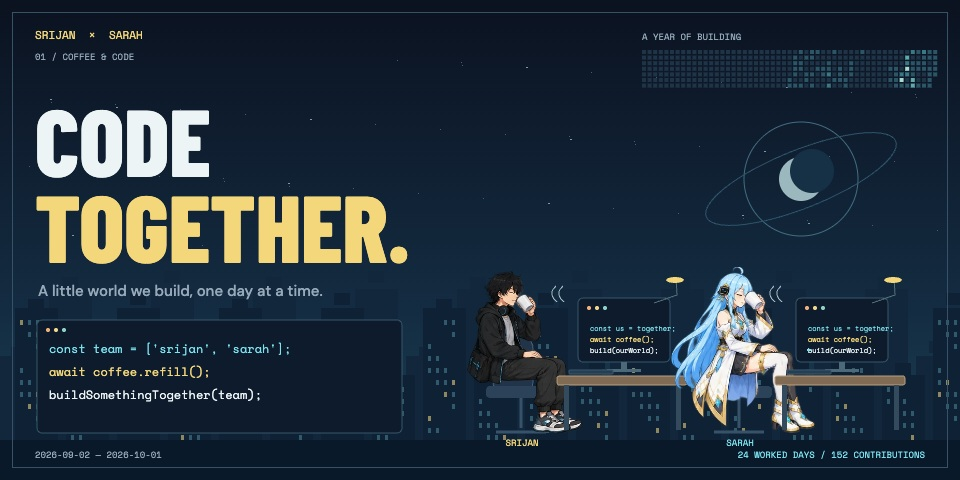
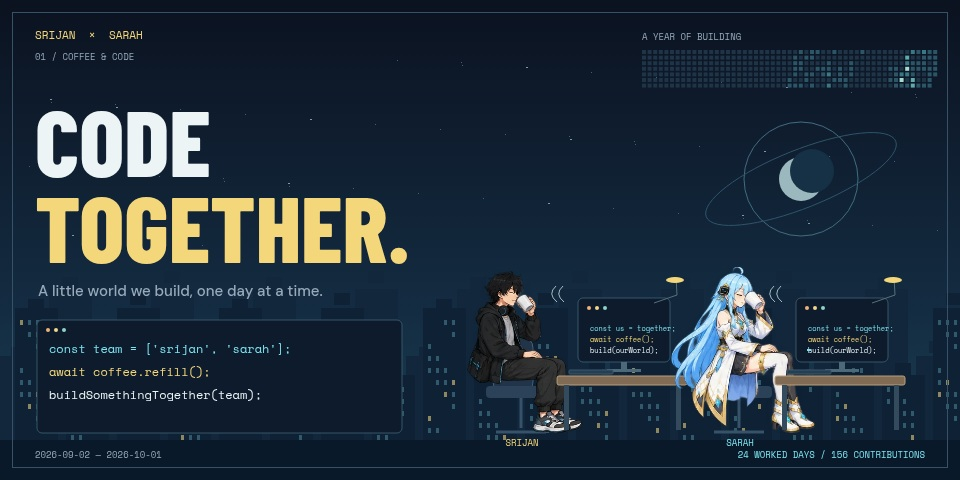
Refresh Code Together from public contribution days

diff --git a/README.md b/README.md
@@ -1,6 +1,6 @@
 <div align="center">
 
-<img src="assets/code-together.gif?v=6f5405a18148" width="100%" alt="Code Together: Srijan and Sarah code over coffee, bring an anime city to life, both jump across real GitHub contribution-day platforms, celebrate the completed build with a cyan-and-gold burst, and share a hug before returning to their workstation." />
+<img src="assets/code-together.gif?v=ecbae8c81b49" width="100%" alt="Code Together: Srijan and Sarah code over coffee, bring an anime city to life, both jump across real GitHub contribution-day platforms, celebrate the completed build with a cyan-and-gold burst, and share a hug before returning to their workstation." />
 
 <sub>SRIJAN × SARAH · COFFEE, CODE & A WORLD WE BUILD TOGETHER</sub>
 
